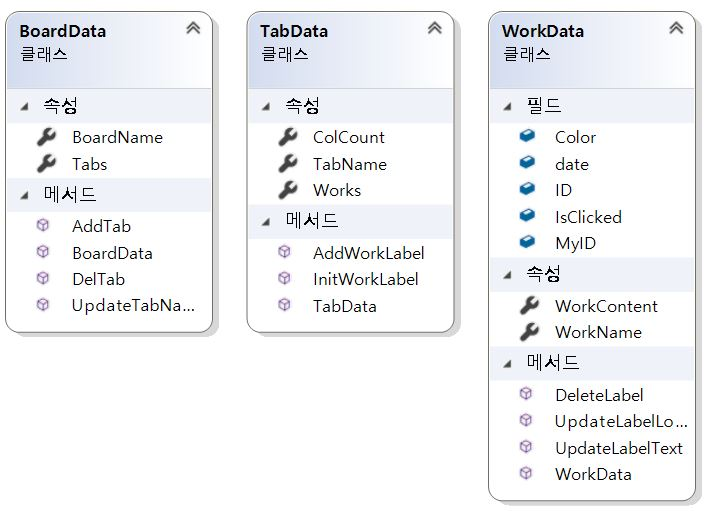
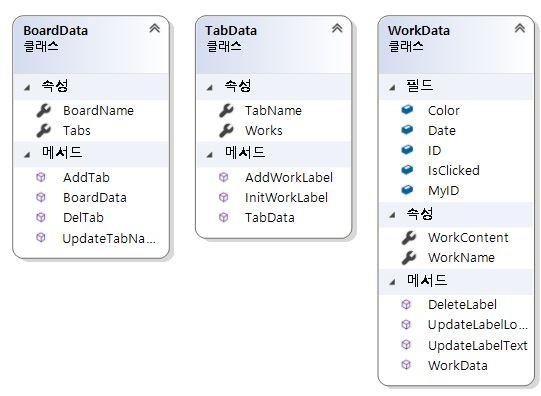
이미지 수정

Changed region(s): [[0.0, 0.0, 1.0, 1.0]]

diff --git a/SimplePlanner/Model/TabData.cs b/SimplePlanner/Model/TabData.cs
@@ -22,7 +22,7 @@ namespace SimplePlanner.Model
 
         public string TabName { get; set; }
         public List<WorkData> Works { get; set; }
-        public int ColCount { get; set; }
+
         /// <summary>
         /// 일정 데이터 추가시 보드 폼에서 일정 라벨 추가
         /// </summary>
